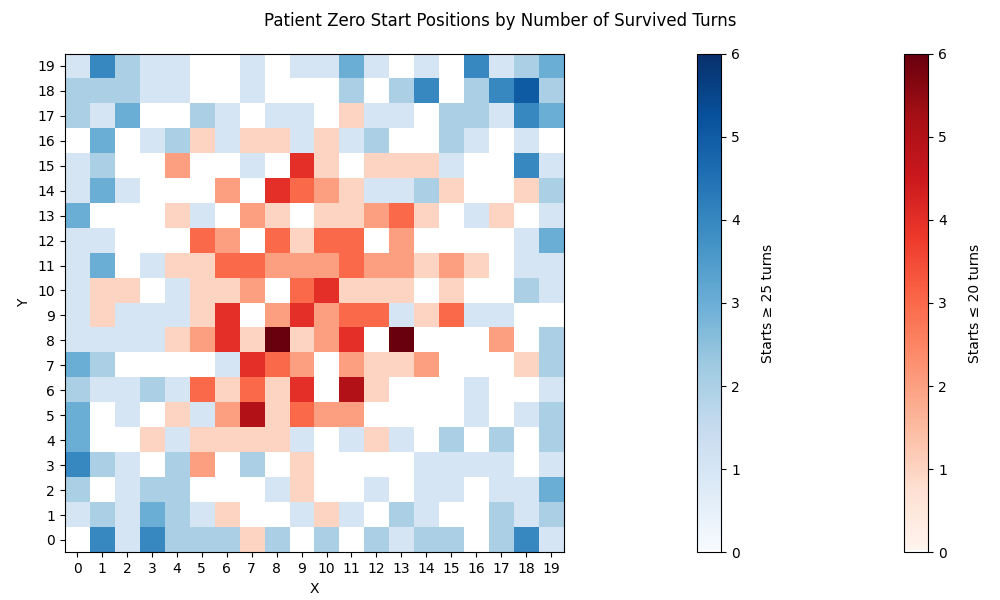
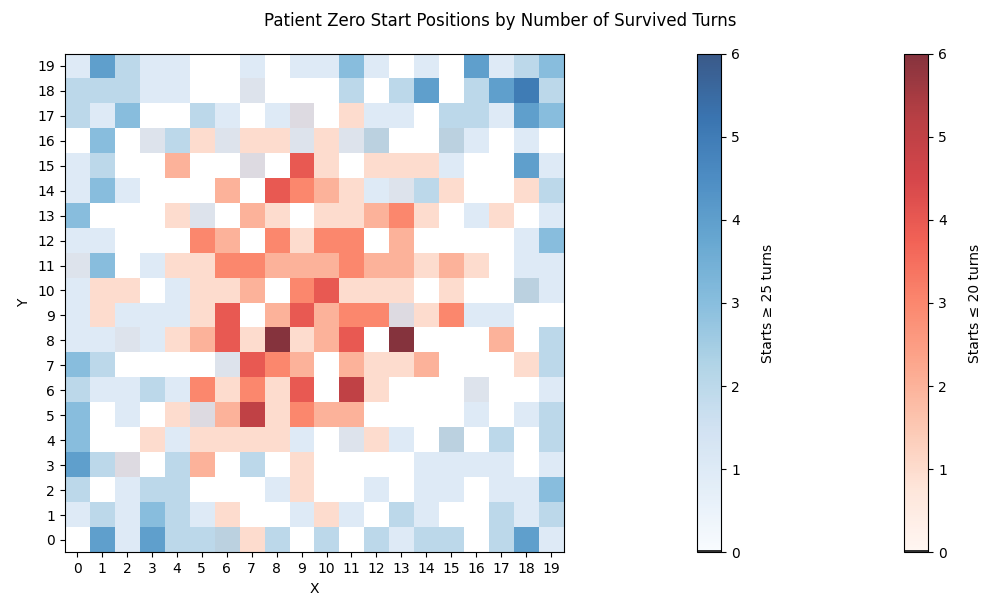
Made heatmap look better

diff --git a/create_graphs.py b/create_graphs.py
@@ -86,8 +86,8 @@ def create_heatmap(path: str, img_name: str):
     transparent_blues = ListedColormap(blues_rgba)
 
     # Use with vmin=0, vmax=6
-    low_plot = ax.imshow(low_grid.T, cmap=transparent_reds, interpolation='nearest', vmin=vmin, vmax=vmax)
-    high_plot = ax.imshow(high_grid.T, cmap=transparent_blues, interpolation='nearest', vmin=vmin, vmax=vmax)
+    low_plot = ax.imshow(low_grid.T, alpha=0.8, cmap=transparent_reds, interpolation='nearest', vmin=vmin, vmax=vmax)
+    high_plot = ax.imshow(high_grid.T, alpha=0.8, cmap=transparent_blues, interpolation='nearest', vmin=vmin, vmax=vmax)
 
     # Low threshold colorbar (Red) – close to the plot
     cbar_low = plt.colorbar(low_plot, ax=ax, fraction=0.046, pad=0.2, orientation='vertical')
